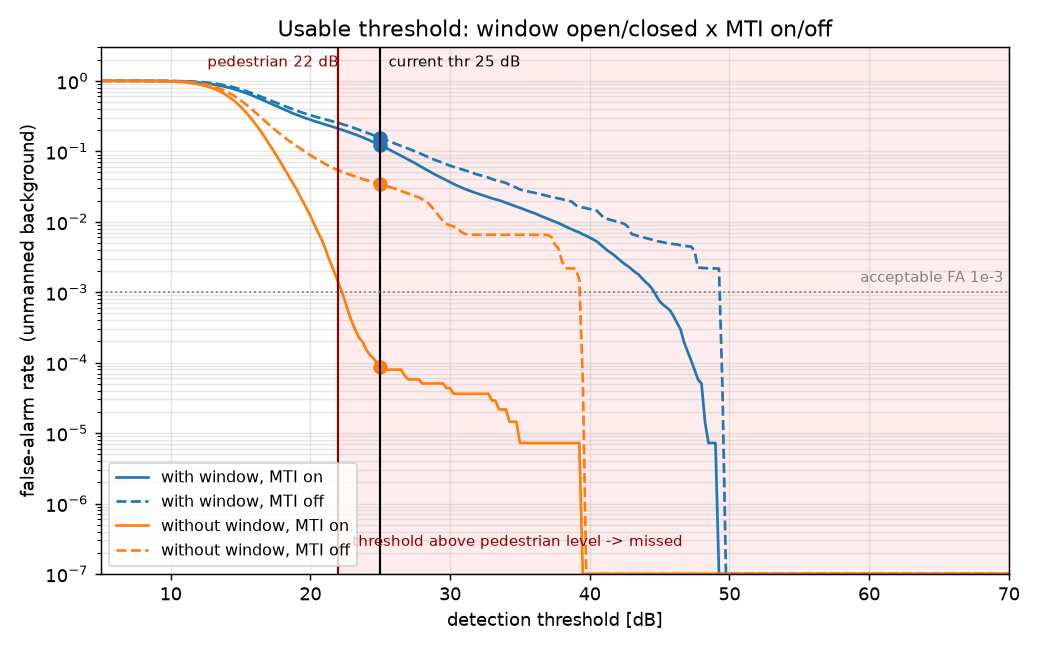
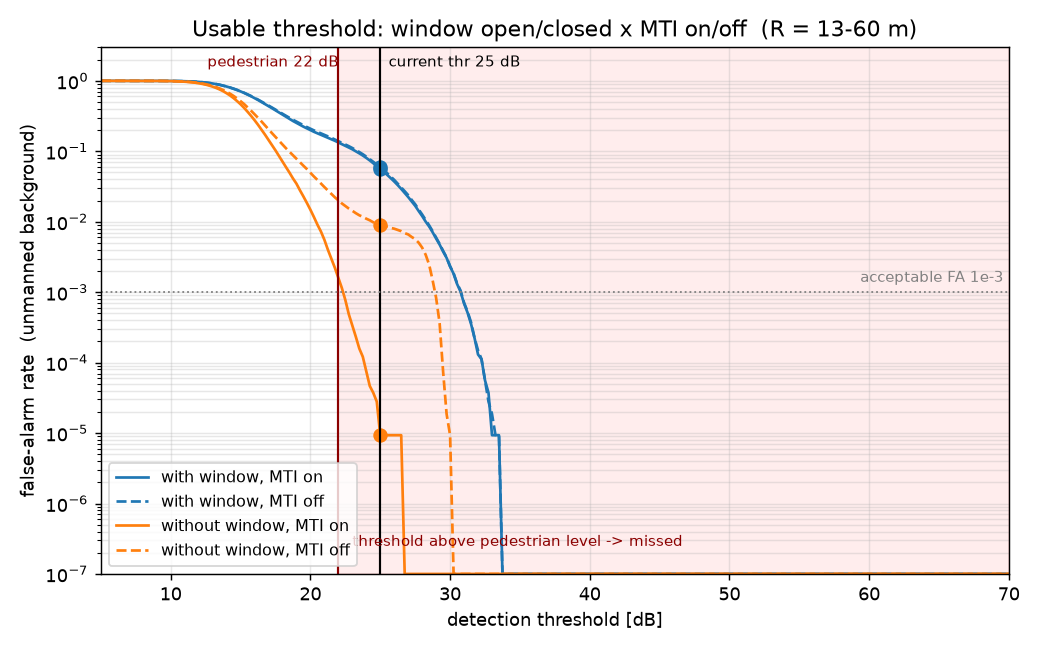
窓比較に近傍ゲート13mを追加
ゲート無しでは最強セルが収録全編 R=0.85m（窓枠・サッシ・三脚）に張り付き、
要求しきい値が 14dB 過大に出ていた。45dB -> 31dB に訂正。
歩行者 22dB を上回るという結論は変わらない（余裕は 9dB）。

diff --git a/400MHz変更用/0928/window_compare.py b/400MHz変更用/0928/window_compare.py
@@ -35,19 +35,27 @@ CASES = {
 }
 
 
-def load_cells(npz_path, rmax):
-    """動体セルの電力[dB]を返す。(Frame, Doppler', Range')"""
+def load_cells(npz_path, rmin, rmax):
+    """動体セルの電力[dB]を返す。(Frame, Doppler', Range')
+
+    rmin より近いビンは捨てる。5F 設置では地上目標はそこまで近づけず、
+    実際に入るのは窓枠・サッシ・三脚といった自分の近傍だけになるため
+    （0727/atlas_track.py の --rmin 13.0 と同じ考え方）。
+    """
     d = np.load(npz_path)
     p = np.abs(d["rd"]).sum(axis=(1, 2))                     # (Frame, Doppler, Range) Rx 非コヒーレント加算
     db = 20 * np.log10(p + 1e-12)
     vel, rng = d["vel_ms"], d["range_m"]
     vel_res = float(np.abs(np.diff(vel)).mean())
     moving = np.abs(vel) >= vel_res                          # 静止クラッタ主ローブを外す
-    return db[:, moving, :][:, :, rng <= rmax]
+    keep_r = (rng >= rmin) & (rng <= rmax)
+    return db[:, moving, :][:, :, keep_r]
 
 
 def main():
     ap = argparse.ArgumentParser()
+    ap.add_argument("--rmin", type=float, default=13.0,
+                    help="近傍ゲート[m]。既定 13m = 5F(h≈15m)から地上目標が現れうる下限")
     ap.add_argument("--rmax", type=float, default=60.0)
     ap.add_argument("--out", default="window_compare.png")
     args = ap.parse_args()
@@ -57,7 +65,7 @@ def main():
     print(f"{'case':26} {'FA@25dB':>9} {'thr for FA=1e-3':>17} {'median':>8}")
 
     for (name, path), c in zip(CASES.items(), ("C0", "C0", "C1", "C1")):
-        flat = load_cells(Path(path), args.rmax).ravel()     # (N,)
+        flat = load_cells(Path(path), args.rmin, args.rmax).ravel()   # (N,)
         fa = (flat[None, :] > thr[:, None]).mean(axis=1)     # (T,)
         ls = "-" if "MTI on" in name else "--"
 
@@ -85,7 +93,8 @@ def main():
 
     ax.set_xlabel("detection threshold [dB]")
     ax.set_ylabel("false-alarm rate  (unmanned background)")
-    ax.set_title("Usable threshold: window open/closed x MTI on/off")
+    ax.set_title(f"Usable threshold: window open/closed x MTI on/off  "
+                 f"(R = {args.rmin:.0f}-{args.rmax:.0f} m)")
     ax.set_ylim(1e-7, 3)
     ax.set_xlim(thr[0], thr[-1])
     ax.grid(alpha=0.3, which="both")

diff --git a/400MHz変更用/0928/verification_0928.md b/400MHz変更用/0928/verification_0928.md
@@ -1,12 +1,12 @@
 # 2026-09-28 事前検証結果
 
 9月29日の現地下見に先立ち、現在手元にあるデータを用いて検証可能な事項を整理・確認した記録である。
-使用したデータは、本日収録した窓開閉時の無人背景データ（30秒×2本、`dat/` 格納）および幾何計算シミュレーションのみであり、被験者による走行データは未取得である。
+使用したデータは、本日収録した窓開閉時の無人背景データ（30秒×2本、`data/raw/` 格納）および幾何計算シミュレーションのみであり、被験者による走行データは未取得である。
 
 ## 結論
 
 1. **30秒間の連続収録は安定**：`.dat`（150フレーム）と`.cam`（150枚）でフレーム欠損はなく、収録単位を30秒間とすることに問題はない。
-2. **窓を閉じた状態での計測は不可**：無人背景にもかかわらず、全体の約12%のセルが現行しきい値（25 dB）を超過する。誤警報率を $10^{-3}$ に抑えるには 45 dB のしきい値が必要となり、過去に実測された歩行者の信号レベル（22 dB）を大幅に上回る。この劣化は MTI（移動目標指示）処理でも補償できない。
+2. **窓を閉じた状態での計測は不可**：無人背景にもかかわらず、全体の約5.6%のセルが現行しきい値（25 dB）を超過する。誤警報率を $10^{-3}$ に抑えるには 31 dB のしきい値が必要となり、過去に実測された歩行者の信号レベル（22 dB）を 9 dB 上回る。この劣化は MTI（移動目標指示）処理でも補償できない。
 3. **設置場所の選定において支配的なのは設置高 $h$ ではなくセットバック $y_r$ である**：ただし、ライン識別の可否そのものは測距推定精度（SNR・真値精度）に依存するため、実機走行データによる確認が必要である。
 4. **走行路上空への街路樹の張り出し**：樹木による直接遮蔽のリスクに加え、走行ラインと同一の距離帯にクラッタ（不要反射）が発生する懸念がある。
 5. **レーダー諸元は7月時点の設定を維持**：距離分解能 0.846 m、速度分解能 0.5995 m/s に変更はない。
@@ -15,20 +15,26 @@
 
 ## 1. 窓の開閉と MTI（移動目標指示）の検証
 
-無人環境での収録であるため、しきい値を超過したセルは定義上すべて誤警報（False Alarm: FA）となる。ここでは、全フレーム × 全動体ドップラービン × 全距離ビン（60 m以下）を集計し、誤警報率を算出した。
+無人環境での収録であるため、しきい値を超過したセルは定義上すべて誤警報（False Alarm: FA）となる。ここでは、全フレーム × 全動体ドップラービン × 距離 13〜60 m のビンを集計し、誤警報率を算出した。
+
+近傍 13 m を除外するのは、5F 設置では地上目標がそこまで接近し得ず、この帯に入るのは窓枠・サッシ・三脚といった自機近傍の反射のみとなるためである（`0727/atlas_track.py` の `--rmin 13.0` と同一の考え方）。ゲートを設けない場合、最強セルが収録全編にわたり $R = 0.85$ m に固定され、要求しきい値が 14 dB 過大に算出される。
 
 | 条件 | 25 dB における誤警報率 | 誤警報率 $10^{-3}$ 達成に必要なしきい値 |
 |---|---|---|
-| 窓あり・MTI ON | **0.122**（約12.2%） | 44.8 dB |
-| 窓あり・MTI OFF | 0.155（約15.5%） | 49.5 dB |
-| 窓なし・MTI ON | **$8.67 \times 10^{-5}$** | **22.5 dB** |
-| 窓なし・MTI OFF | 0.034（約3.4%） | 39.5 dB |
+| 窓あり・MTI ON | **0.056**（約5.6%） | 31.0 dB |
+| 窓あり・MTI OFF | 0.060（約6.0%） | 31.0 dB |
+| 窓なし・MTI ON | **$9.3 \times 10^{-6}$** | **22.5 dB** |
+| 窓なし・MTI OFF | $9.0 \times 10^{-3}$（約0.9%） | 29.0 dB |
 
 - **現行しきい値（25 dB）が成立するのは「窓なし・MTI ON」のみ**である。
 - **窓の有無による影響が MTI の抑圧効果を上回る**：「窓なし・MTI OFF」のほうが「窓あり・MTI ON」よりも良好であり、窓による性能劣化は MTI 処理では補償できない。
-- **窓を閉じた状態では MTI がほとんど機能しない**（誤警報率が 0.155 $\to$ 0.122 とわずかしか低下しない）。一方で窓開放時は約400倍の改善効果が得られる。MTI は静止クラッタを抑圧する処理であるため、**窓あり環境で発生しているクラッタはドップラー成分（速度変動）を含んでいる**ことが示唆される。
+- **窓を閉じた状態では MTI がほとんど機能しない**（誤警報率が 0.060 $\to$ 0.056 とわずかしか低下せず、必要しきい値は 31 dB のまま変わらない）。一方で窓開放時は約1000倍の改善効果が得られる（$9.0 \times 10^{-3} \to 9.3 \times 10^{-6}$）。MTI は静止クラッタを抑圧する処理であるため、**窓あり環境で発生しているクラッタはドップラー成分（速度変動）を含んでいる**ことが示唆される。
 
-窓を閉じた状態で誤警報率を $10^{-3}$ に抑えるには約 45 dB のしきい値が必要となるが、これは 7月28日に実測された歩行者の反射強度 22 dB（`0727/atlas_track.py`）を大幅に上回る。したがって、**窓を閉じた状態では歩行者を検出することは不可能である**。なお、この 22 dB という実測値自体が窓のない環境で得られたものであるため、窓越しの計測では歩行者からの反射波も減衰し、目標信号とクラッタの差はさらに広がると考えられる。
+窓を閉じた状態で誤警報率を $10^{-3}$ に抑えるには約 31 dB のしきい値が必要となるが、これは 7月28日に実測された歩行者の反射強度 22 dB（`0727/atlas_track.py`）を 9 dB 上回る。したがって、**窓を閉じた状態では歩行者を検出することは不可能である**。なお、この 22 dB という実測値自体が窓のない環境で得られたものであるため、窓越しの計測では歩行者からの反射波も減衰し、目標信号とクラッタの差はさらに広がると考えられる。
+
+**図（`window_compare.png`）の読み方**：横軸のしきい値を1つ選ぶと、縦軸にそのときの誤警報率が読める。実用可能な条件とは、「灰色の点線（許容誤警報率 $10^{-3}$）より下」かつ「赤帯より左（しきい値が歩行者の信号レベル 22 dB を超えない）」を同時に満たす縦位置が存在することを指す。窓なし・MTI ON（橙実線）のみが 22 dB の手前で点線を下回り、他の3条件は点線に達する前に赤帯へ入る。丸印は現行しきい値 25 dB における読み値である。
+
+なお右端で各曲線が垂直に落ちているのは、データ内の最大値を超えて該当セルが皆無となるためである。総セル数は約10.7万であり、$1/N pprox 9 	imes 10^{-6}$ より下の領域は 30秒×1本では測定できていない（$10^{-3}$ の判定は約100セル相当のため問題ない）。
 
 - 再現スクリプト: `window_compare.py`
 - 出力図: `window_compare.png`
@@ -49,7 +55,7 @@
 **分離可否の判断について**：本幾何シミュレーションのみでは、ライン識別の可否を確定することはできない。$\Delta R$ と比較すべき対象は距離 $R$ の推定精度（サブビン推定精度）であり、これは実機計測時の SNR（信号対雑音比）および真値（Ground Truth）の精度に依存するためである（なお、レーダーの距離分解能 0.846 m は同一フレーム内で複数目標を分離するための指標であり、異なる試行間での走行ライン推定を評価する本件には直接適用できない）。したがって、本節の結果は**最適な設置場所を選定するための指針**として位置付ける。
 
 - 再現スクリプト: `line_separability.py`（幾何コア: `geometry.py`）
-- 出力図: `line_separability.png`
+- 出力図は作成しない（比較対象を距離分解能から推定精度へ改めた時点で、分解能の線を引いた図は誤読を招くため。上表で代替する）
 
 ## 3. カメラ映像の所見
 
@@ -67,7 +73,7 @@ JPEG 1枚あたりの平均ファイルサイズは、窓あり撮影時で 631 
 
 | 優先度 | 確認項目 | 理由・根拠 |
 |---|---|---|
-| 1 | **窓を開放できるか** | 窓を閉じた状態では誤警報が過多となり計測不能となるため（§1：必須要件） |
+| 1 | **窓を開放できるか（開口部の広さを含む）** | 窓を閉じた状態では誤警報が過多となり計測不能となるため（§1：必須要件） |
 | 2 | **セットバック $y_r$ をどの程度確保できるか** | ライン識別の幾何的分離性に直結する最重要パラメータであるため（§2） |
 | 3 | **樹木による遮蔽区間の範囲**（26 m 中、何 m が樹冠下に入るか） | 有効なデータ取得・評価区間の設定に影響するため（§3） |
 | 4 | **走行路の有効幅**（4本のラインを引く十分な幅があるか） | 対象が歩道であるため、想定している4 m幅を確保できない懸念があるため |
@@ -79,4 +85,5 @@ JPEG 1枚あたりの平均ファイルサイズは、窓あり撮影時で 631 
 - **目標対クラッタ比（SCR）の実測**：手元のデータが無人背景のみであるため、§1 の結論は過去に実測した歩行者信号レベル（22 dB）と対比させた間接的な評価にとどまる。直接的な検証には、窓の開閉それぞれにおいて被験者が歩行するデータ（各30秒）の取得が必要である。
 - **ライン識別精度の実機検証**：本稿の評価は幾何学的関係に基づくものであり、実環境での識別可否は、外側2ラインを実際に走行する9月30日のパイロット実験において初めて検証される。
 - **データ数の制約による交絡の可能性**：窓開閉データは各1本ずつの収録であるため、室内の状況や収録時間帯の違いによる影響が交絡している可能性は排除できない。
+- **開口部によるケラレの混入**：現行サイトで開放できるのは細い縦長部分のみであり、「窓なし」条件でもビームの一部は窓枠・ガラスに当たっている。§1 の差分には窓の減衰に加えて開口部によるケラレの差が混在しており、開口条件の異なる新候補地にそのまま適用することはできない。
 - **設置サイト固有の条件**：§3 の所見はすべて現行サイトにおけるものであるため、新候補地（B棟・C棟の階段踊り場など）については、改めて現地で状況を確認する必要がある。
